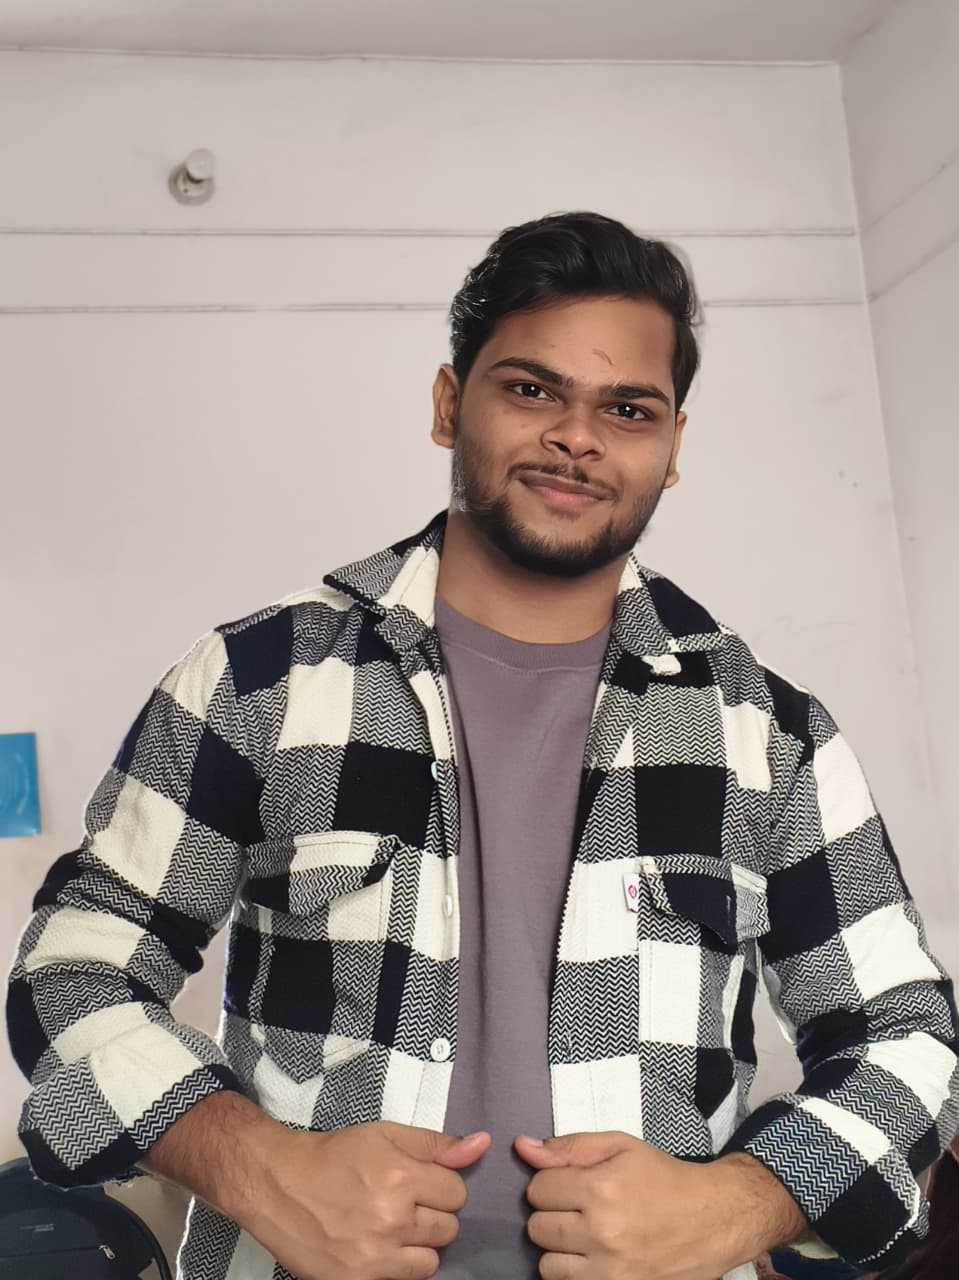
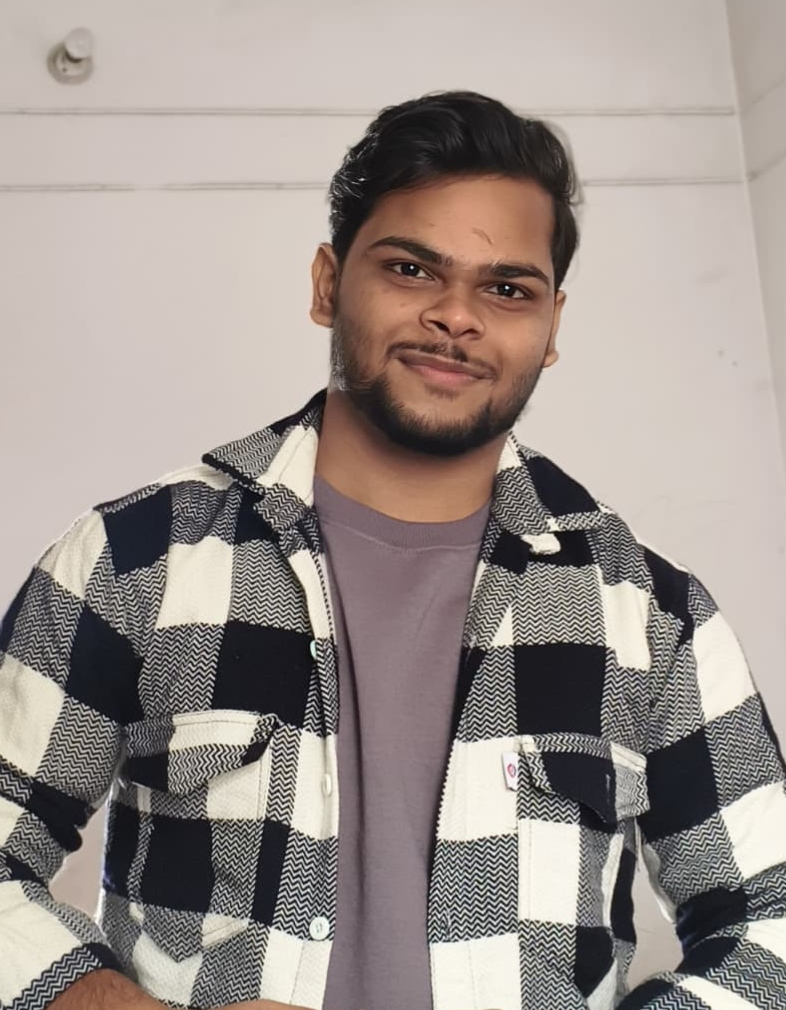
readme update

diff --git a/README.md b/README.md
@@ -32,7 +32,7 @@ This project was built collaboratively by a team of **7 members** from [Rajkiya 
     </td>
     <td align="center" width="160">
       <a href="#">
-        <img src="profile/Ansh.jpeg" width="80" height="80" style="border-radius: 50%; object-fit: cover;" alt="Ansh Jaiswal" />
+        <img src="profile/Ansh.png" width="80" height="80" style="border-radius: 50%; object-fit: cover;" alt="Ansh Jaiswal" />
       </a>
       <br/><br/><b>Ansh Jaiswal</b>
       <br/><sub>2407370130022</sub>